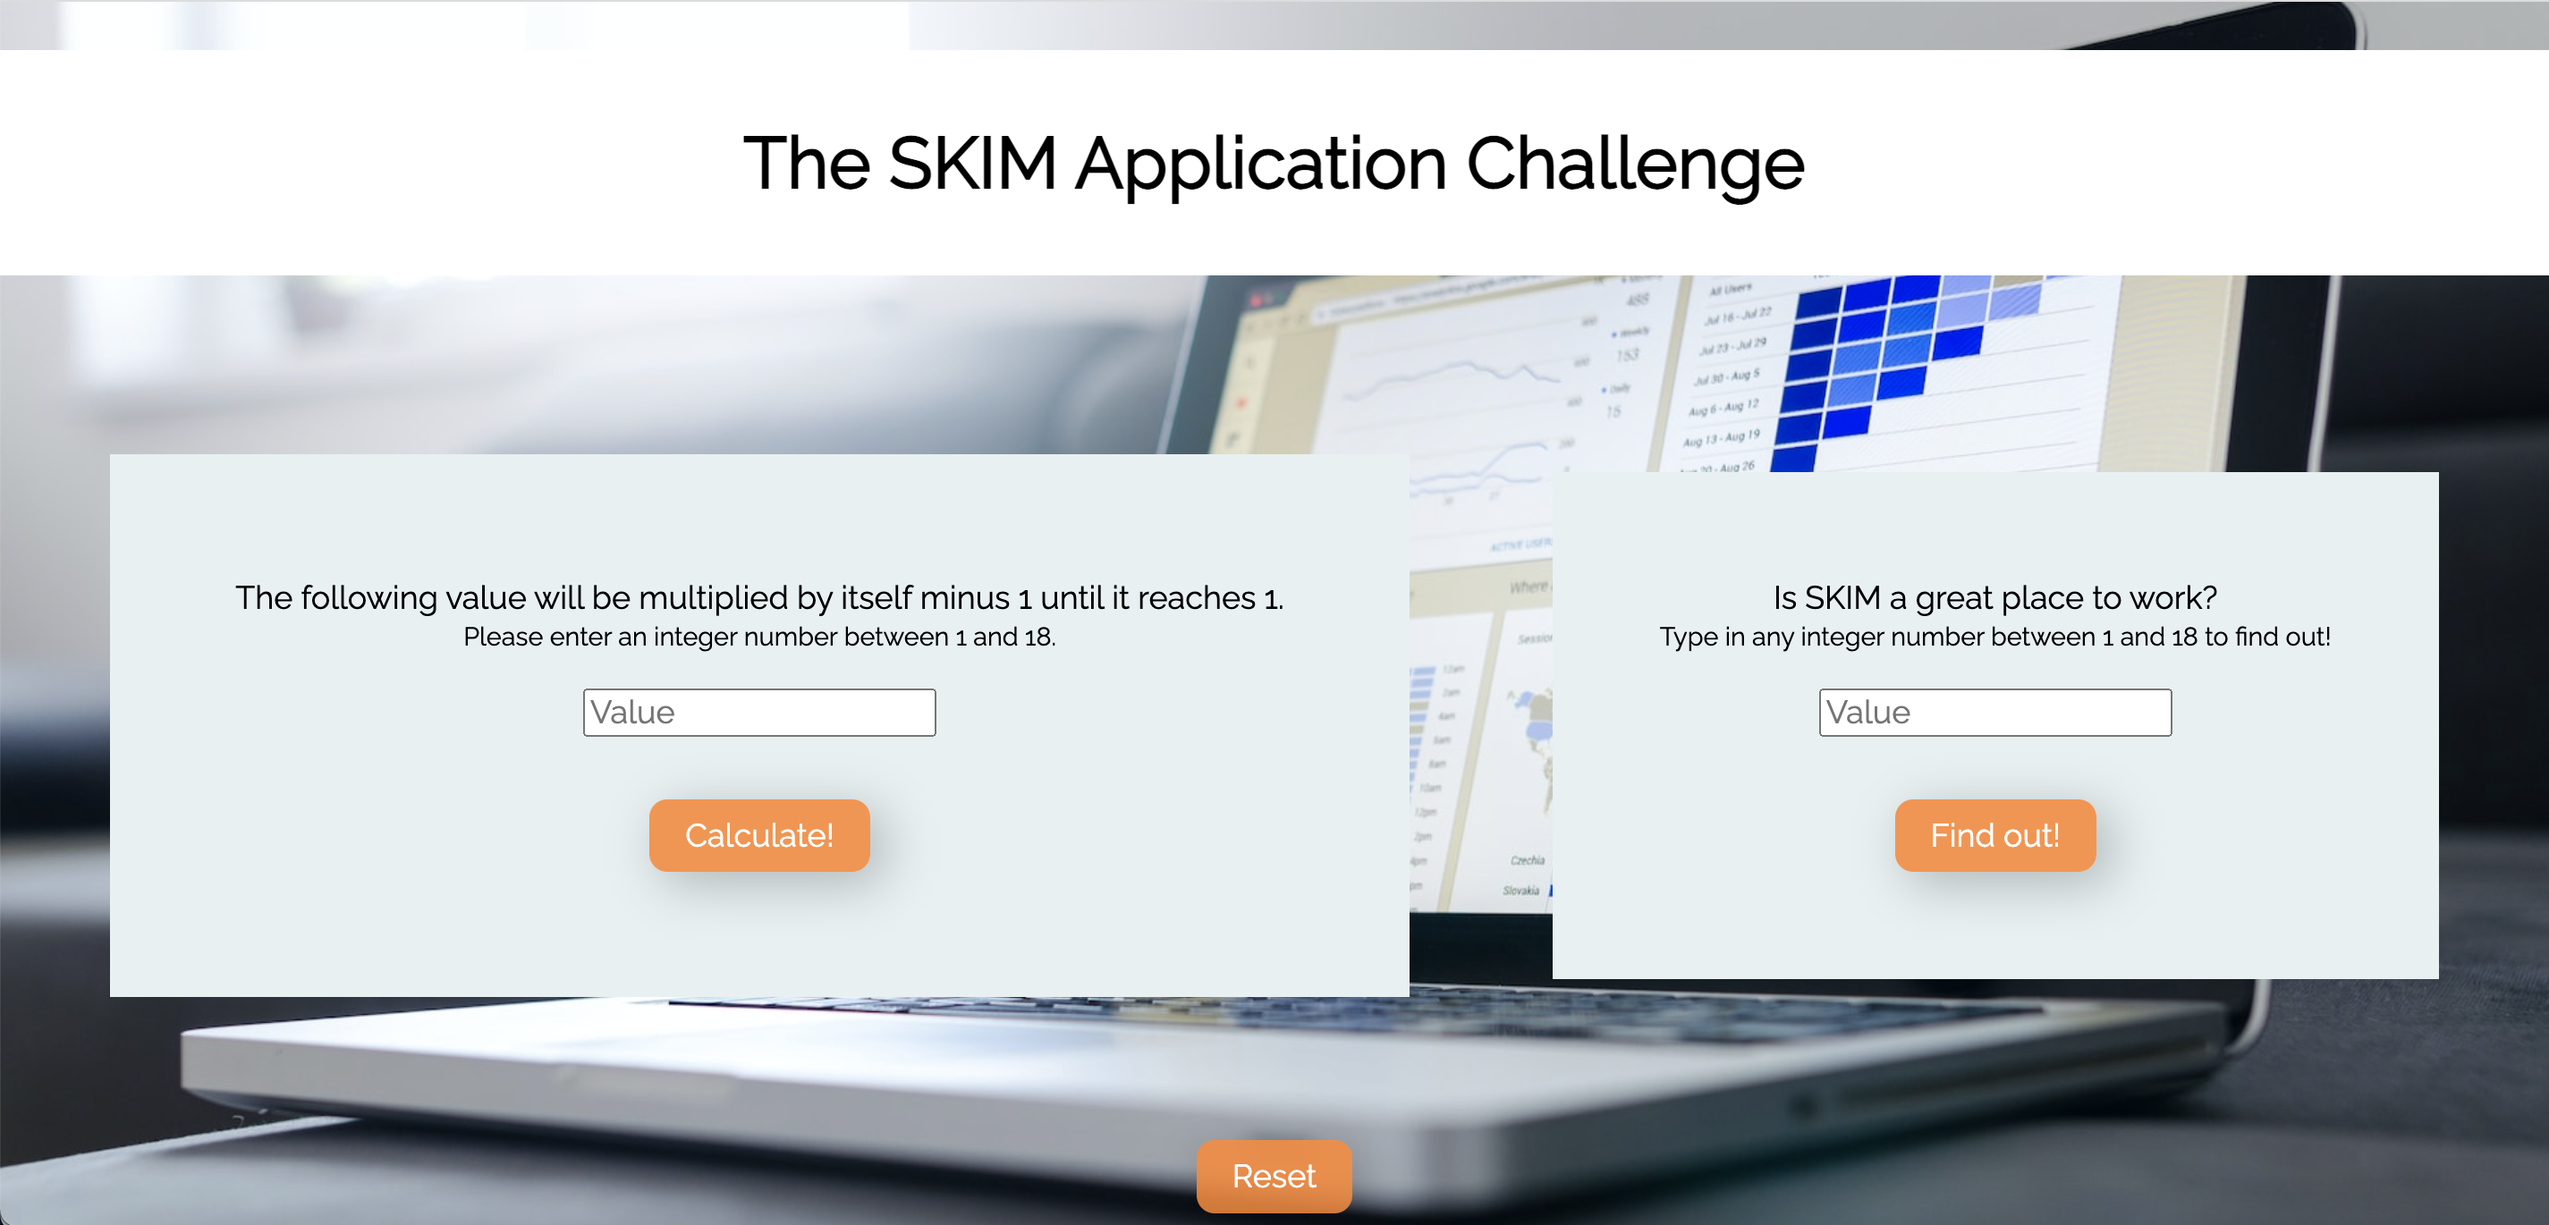
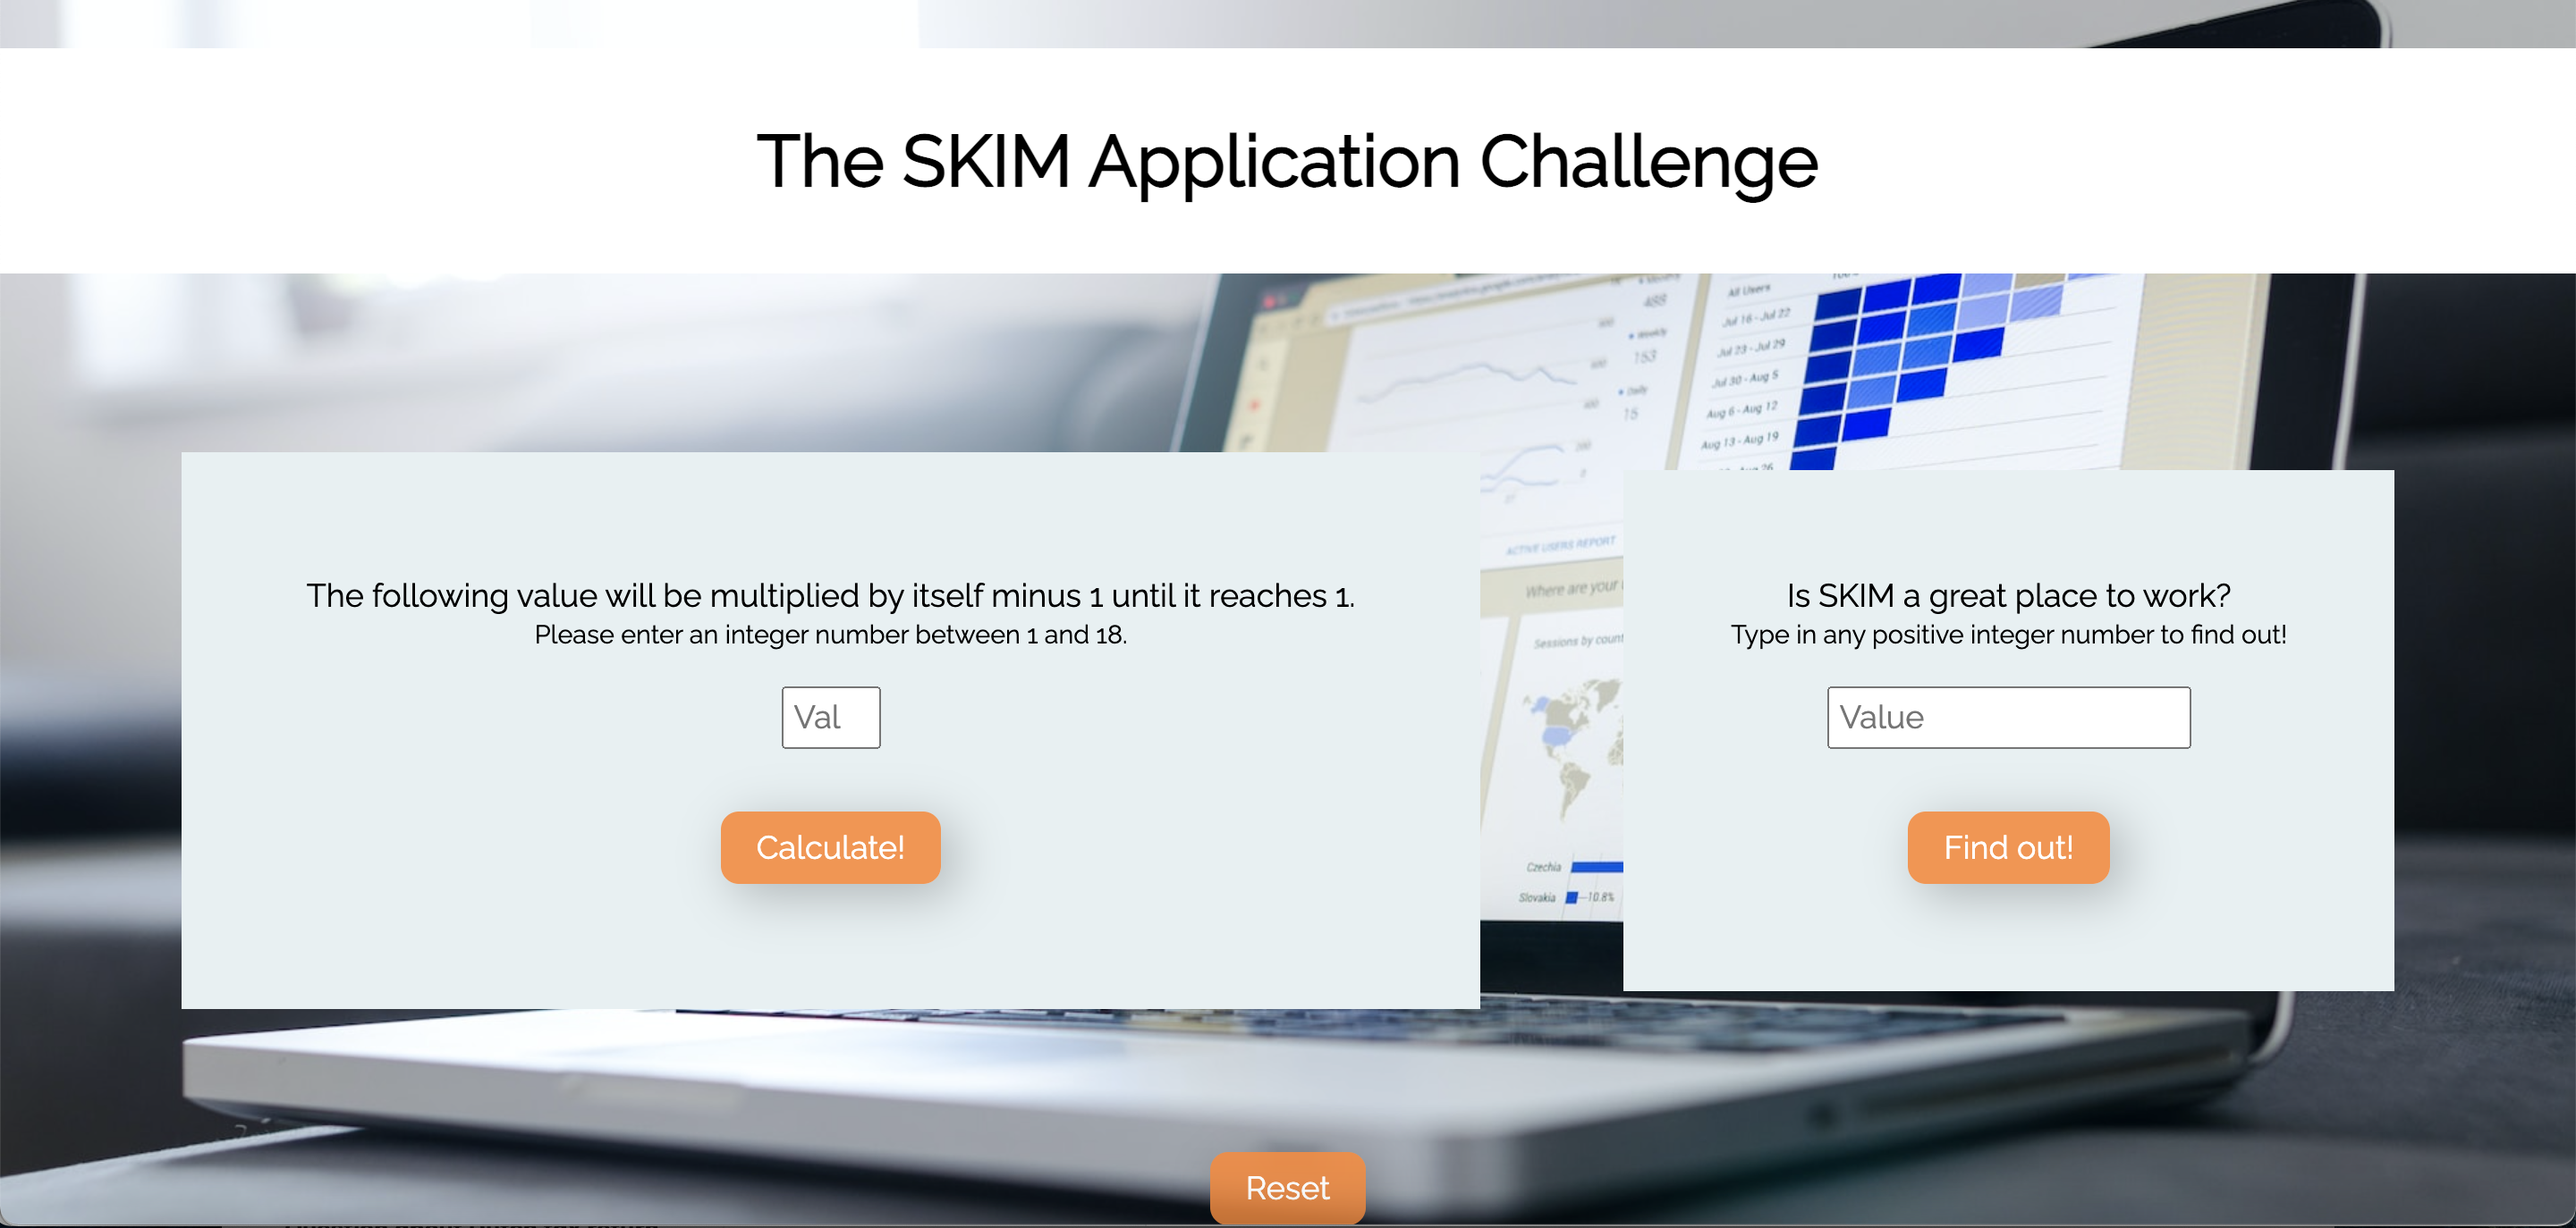
Implemented Feedback

diff --git a/SKIM_Challenge/js/script.js b/SKIM_Challenge/js/script.js
@@ -1,35 +1,36 @@
 //1 CONSTANTS
 
 //Defining constants for elements that are reocurring in my functions
-const errorMessage = 'Please enter an integer number between 1 and 18!'
-const getResult1 = document.getElementById('result1')
-const getForm1 = document.getElementById('formC1')
-const getInput1 = document.getElementById('inputChallenge1')
-const getButton1 = document.getElementById('buttonChallenge1')
+const getResult1 = document.getElementById('result-1')
+const getForm1 = document.getElementById('form-c1')
+const getInput1 = document.getElementById('input-challenge-1')
+const getButton1 = document.getElementById('button-challenge-1')
 
-const getResult2 = document.getElementById('result2')
-const getForm2 = document.getElementById('formC2')
-const getInput2 = document.getElementById('inputChallenge2')
-const getButton2 = document.getElementById('buttonChallenge2')
+const getResult2 = document.getElementById('result-2')
+const getForm2 = document.getElementById('form-c2')
+const getInput2 = document.getElementById('input-challenge-2')
+const getButton2 = document.getElementById('button-challenge-2')
+const errorMessage2 = 'Please enter a positive integer number!'
 
 //2 ACTIONS
 
 //Executing the calculateFactorial function when button1 is clicked
 getButton1.onclick = function() {
     getResult1.style.color = 'black';
-    calculateFactorial(getInput1.value);
+    getResult1.innerHTML = calculateFactorial(getInput1.value);
 };
 
 //Executing the calculateSKIM function when button2 is clicked
 getButton2.onclick = function() {
     getResult2.innerHTML = "";
     getResult2.style.color = 'black';
-    calculateSKIM(getInput2.value);
+    getResult2.innerHTML = calculateSKIM(getInput2.value, getResult2, getForm2, errorMessage2);
 };
 
 //Executing the reset function when the reset button is clicked
 document.getElementById("reset").onclick = function() {
-    reset();
+    reset(getForm1, getResult1);
+    reset(getForm2, getResult2);
 };
 
 //3 FUNCTIONS
@@ -41,62 +42,59 @@ function isInt(value) {
     !isNaN(parseInt(value, 10));
 }
 
-//Challenge 1 - The input is multiplied by itself minus 1 until it reaches 1
-function calculateFactorial(valueC1) {
-    //Throwing an error message when the input is not a number or not between 1 and 18
+//Throw and catch errors
+//Throwing an error message when the input is not a number or not positive
+function throwAndCatchErrors(value, getResult, getForm, errorMessage) {
     try {
-        if (!isInt(valueC1)) throw errorMessage;
-        if (valueC1 <= 0) throw errorMessage;
-        if (valueC1 >= 19) throw errorMessage;
+        if (!isInt(value)) throw errorMessage;
+        if (value <= 0) throw errorMessage;
+        //removed the upper limit after feedback
+        return 'validInput';
     }
     
     catch(e) {
-        getResult1.innerHTML = e;
-        getResult1.style.color = 'red';
-        getForm1.reset();
-        return;
+        getResult.innerHTML = e;
+        getResult.style.color = 'red';
+        getForm.reset();
+        return 'notValidInput';
     }
+}
+
+//Challenge 1 - The input is multiplied by itself minus 1 until it reaches 1
+function calculateFactorial(value) {
 
     //Calculating the factorial
-    if(valueC1 == 0 || valueC1 == 1){
-        return getResult1.innerHTML = 1;
+    if(value == 1){
+        return 1;
     }else{
-        return getResult1.innerHTML = valueC1 *= calculateFactorial(valueC1-1);
+        return value * calculateFactorial(value-1);
     }
 }
 
 
 //Challenge 2 - SKIM is a great place to work!
-function calculateSKIM(valueC2) {
-    //Throwing an error message when the input is not a number or not between 1 and 18
-    try {
-        if (!isInt(valueC2)) throw errorMessage;
-        if (valueC2 <= 0) throw errorMessage;
-        if (valueC2 >= 19) throw errorMessage;
+function calculateSKIM(value, getResult, getForm, errorMessage) {
+    //Throwing an error message when the input is not a number or not positive
+    let validInput = throwAndCatchErrors(value, getResult, getForm, errorMessage);
+    if (validInput == 'notValidInput') return errorMessage;
+   
+    //Executing the function
+    let SKIMList = [];
+    let logElement = '';
+    for (let i = 0; i < value;) {
+        logElement = ((++i % 3 ? '' : 'SKIM ') + (i % 5 ? '' : 'is a great place to work!!') || i);
+        console.log(logElement);
+        SKIMList.push(logElement);
     }
     
-    catch(e) {
-        getResult2.innerHTML = e;
-        getResult2.style.color = 'red';
-        getForm2.reset();
-        return;
-    }
-
-    //Executing the function
-    for (let i = 0; i < valueC2;) {
-        let element = document.createElement('li')
-        element.innerText = "";
-            {element.innerText += ((++i % 3 ? '' : 'SKIM ') + (i % 5 ? '' : 'is a great place to work!!') || i)}
-        
-        getResult2.appendChild(element);
-    }
+    //Formatting the output to display as a list 
+    SKIMList = SKIMList.map(n => '<li>' + n + '</li>').join(' ');
+    
+    return SKIMList;
 }
 
 //Reset
-function reset() {
-    getForm1.reset();
-    getForm2.reset();
-
-    getResult1.innerHTML = "";
-    getResult2.innerHTML = "";
+function reset(getForm, getResult) {
+    getForm.reset();
+    getResult.innerHTML = "";
 }

diff --git a/SKIM_Challenge/index.html b/SKIM_Challenge/index.html
@@ -17,40 +17,40 @@
     </head>
     <body>
         <div id="page-container">
-            <div id="content-wrap">
+            <div id="content-wrap-above-footer">
                 <h1>The SKIM Application Challenge</h1> 
                 <div class="flex-container">
-                        <div class="flex-childC1">
-                        <form id="formC1" onSubmit="return false">
+                        <div class="flex-child-c1">
+                        <form id="form-c1" onSubmit="return false">
                             <label>
                                 The following value will be multiplied by itself minus 1 until it reaches 1.<br>
                                 <small>Please enter an integer number between 1 and 18.</small><br>
-                                <input type="text" id="inputChallenge1" placeholder="Value">
+                                <input type="number" min="1" max="18" id="input-challenge-1" placeholder="Value">
                             </label><br>
-                            <div id="result1">
+                            <div id="result-1">
                             
                             </div> <!--Result Challenge 1-->
-                            <button type="button" id="buttonChallenge1">Calculate!</button>
+                            <button type="button" id="button-challenge-1">Calculate!</button>
                         </form>
                     </div> <!-- Challenge 1 -->
 
-                    <div class="flex-childC2">
-                        <form id="formC2" onSubmit="return false">
+                    <div class="flex-child-c2">
+                        <form id="form-c2" onSubmit="return false">
                             <label>
                                 Is SKIM a great place to work?<br>
-                                <small>Type in any integer number between 1 and 18 to find out!</small><br>
-                                <input type="text" id="inputChallenge2" placeholder="Value">
+                                <small>Type in any positive integer number to find out!</small><br>
+                                <input type="text" id="input-challenge-2" placeholder="Value">
                             </label><br>
-                            <div id="result2">
+                            <div id="result-2">
                             
                             </div> <!--Result Challenge 2-->
-                            <button type="button" id="buttonChallenge2">Find out!</button>
+                            <button type="button" id="button-challenge-2">Find out!</button>
                         </form>
 
                     </div> <!-- Challenge 2 -->
                 </div> <!--flex-container-->
                 <div id="reset-button"><button type="button" id="reset">Reset</button></div>
-            </div> <!--Content wrap-->
+            </div> <!--Content wrap above footer-->
             <footer>
                 <p>Copyright &copy; 2023 Milena Eickhoff. Thank you for your attention.</p>
             </footer>

diff --git a/SKIM_Challenge/css/styles.css b/SKIM_Challenge/css/styles.css
@@ -16,7 +16,7 @@ body {
     min-height: 100vh;
 }
   
-#content-wrap {
+#content-wrap-above-footer {
     padding-bottom: 2.5rem;
 }
 
@@ -37,7 +37,7 @@ h1 {
     margin: 60px 0 40px;
    
 }
-.flex-childC1 {
+.flex-child-c1 {
     justify-content: center;
     text-align: center;
     margin: 40px;
@@ -45,7 +45,7 @@ h1 {
     padding: 70px;
 }
 
-.flex-childC2 {
+.flex-child-c2 {
     justify-content: center;
     text-align: center;
     margin: 40px;
@@ -55,6 +55,7 @@ h1 {
 
 input  {
     margin: 20px;
+    padding: 5px;
 }
 
 #reset-button {
@@ -102,13 +103,13 @@ footer p {
     font-size: 14px;
 }
 
-#result1 {
+#result-1 {
     font-size: 18px;
     text-align: center;
     margin-bottom: 15px;
 }
 
-#result2 {
+#result-2 {
     font-size: 16px;
     list-style-type: none;
     margin-bottom: 15px;
